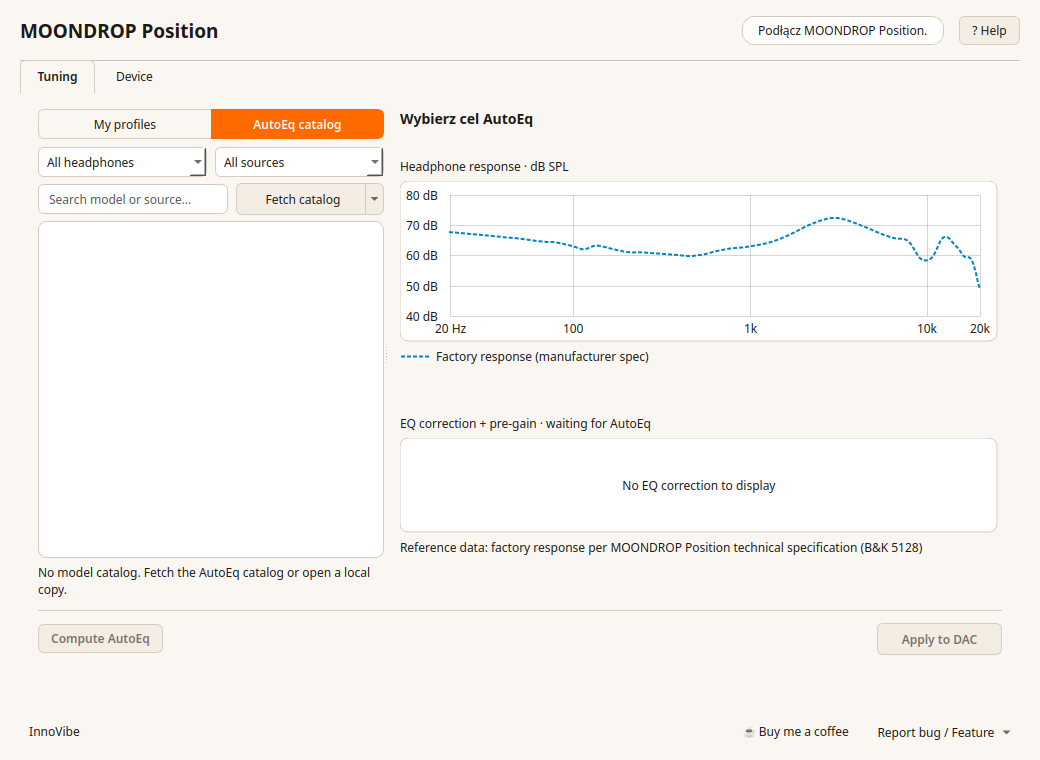
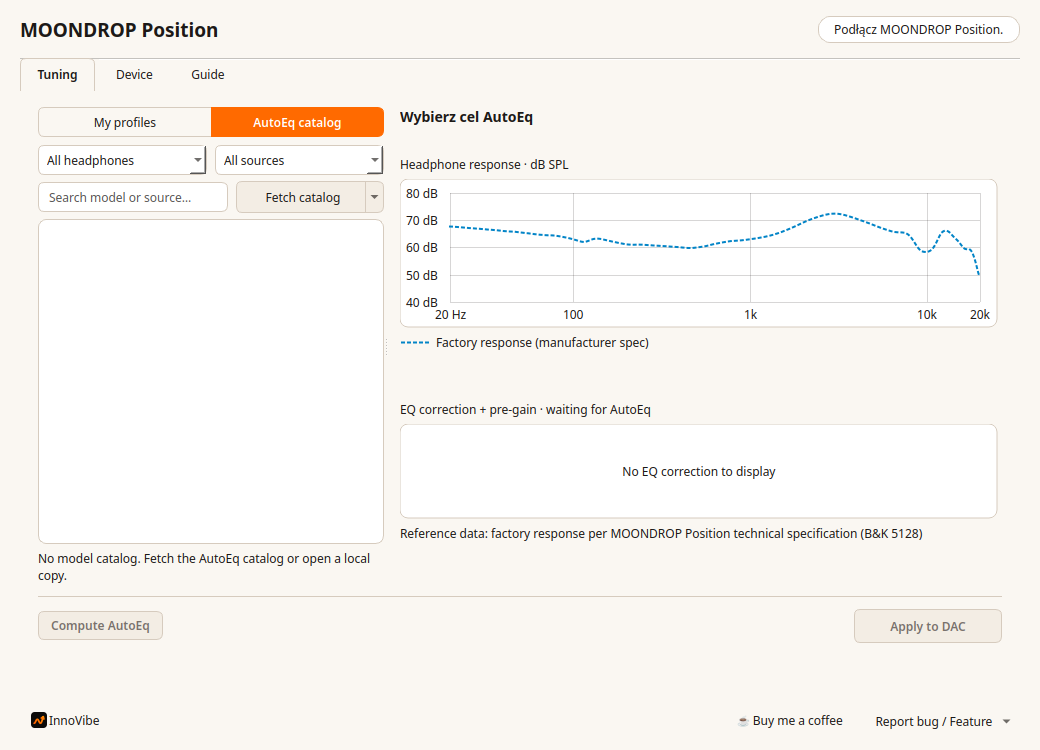
Update all documentation screenshots and add Guide tab to READMEs

diff --git a/README.pl.md b/README.pl.md
@@ -51,6 +51,9 @@ Niezależnie od tego, czy grasz w strzelanki na Steam/Proton, czy stroisz swoje 
 ### Stan urządzenia, wzmocnienie i jakość PipeWire UAC2
 ![Ustawienia urządzenia](docs/screenshots/03-device-settings.png)
 
+### Wbudowany Przewodnik, skróty i wsparcie
+![Zakładka Przewodnik](docs/screenshots/05-guide-tab.png)
+
 ---
 
 ## Szybki start

diff --git a/README.md b/README.md
@@ -51,6 +51,9 @@ Whether you're fragging in Counter-Strike / Steam Proton or fine-tuning your IEM
 ### Device Status, Gains & PipeWire UAC2 Quality
 ![Device Settings](docs/screenshots/03-device-settings.png)
 
+### Built-in Guide, Shortcuts & Support
+![Guide Tab](docs/screenshots/05-guide-tab.png)
+
 ---
 
 ## Quick Start
